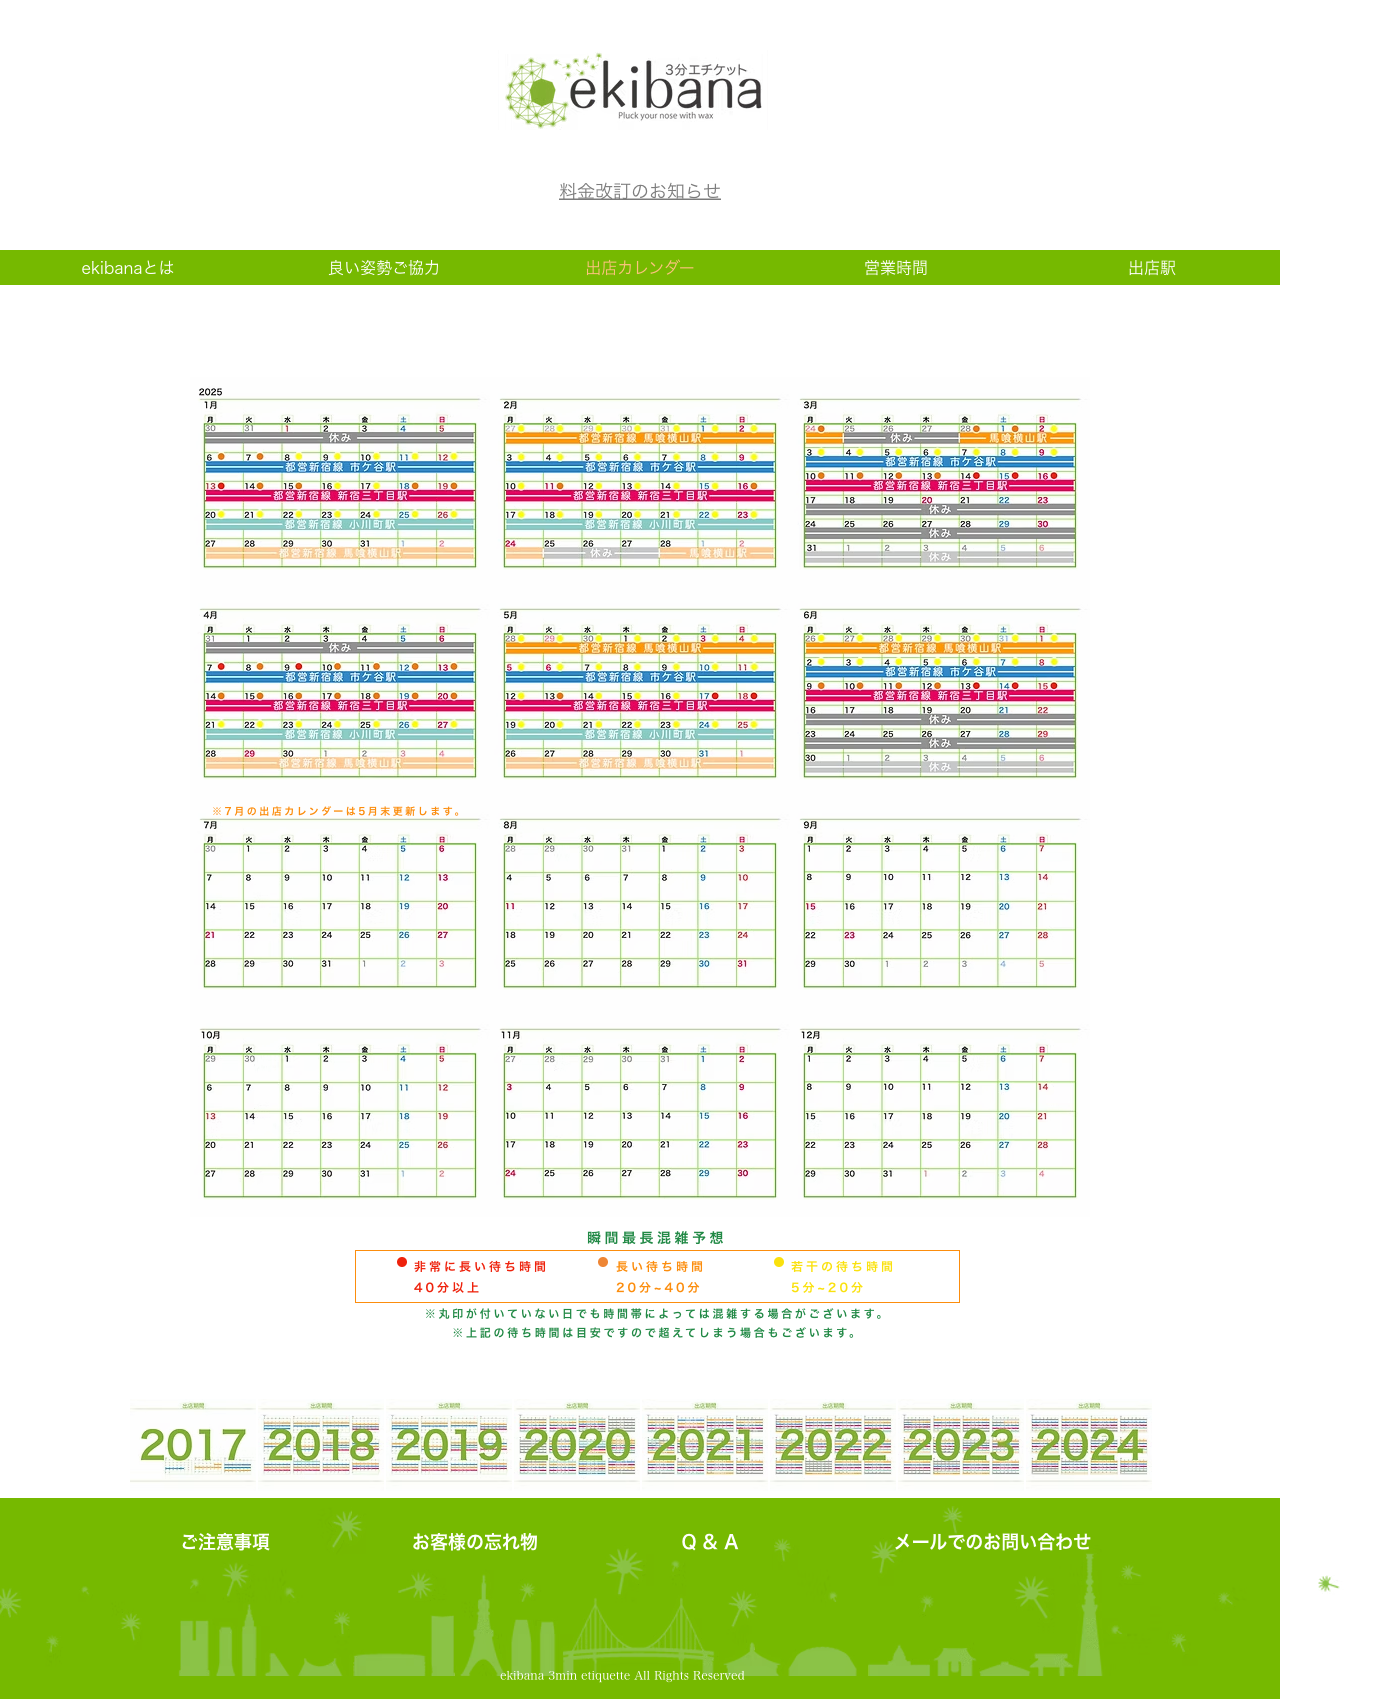
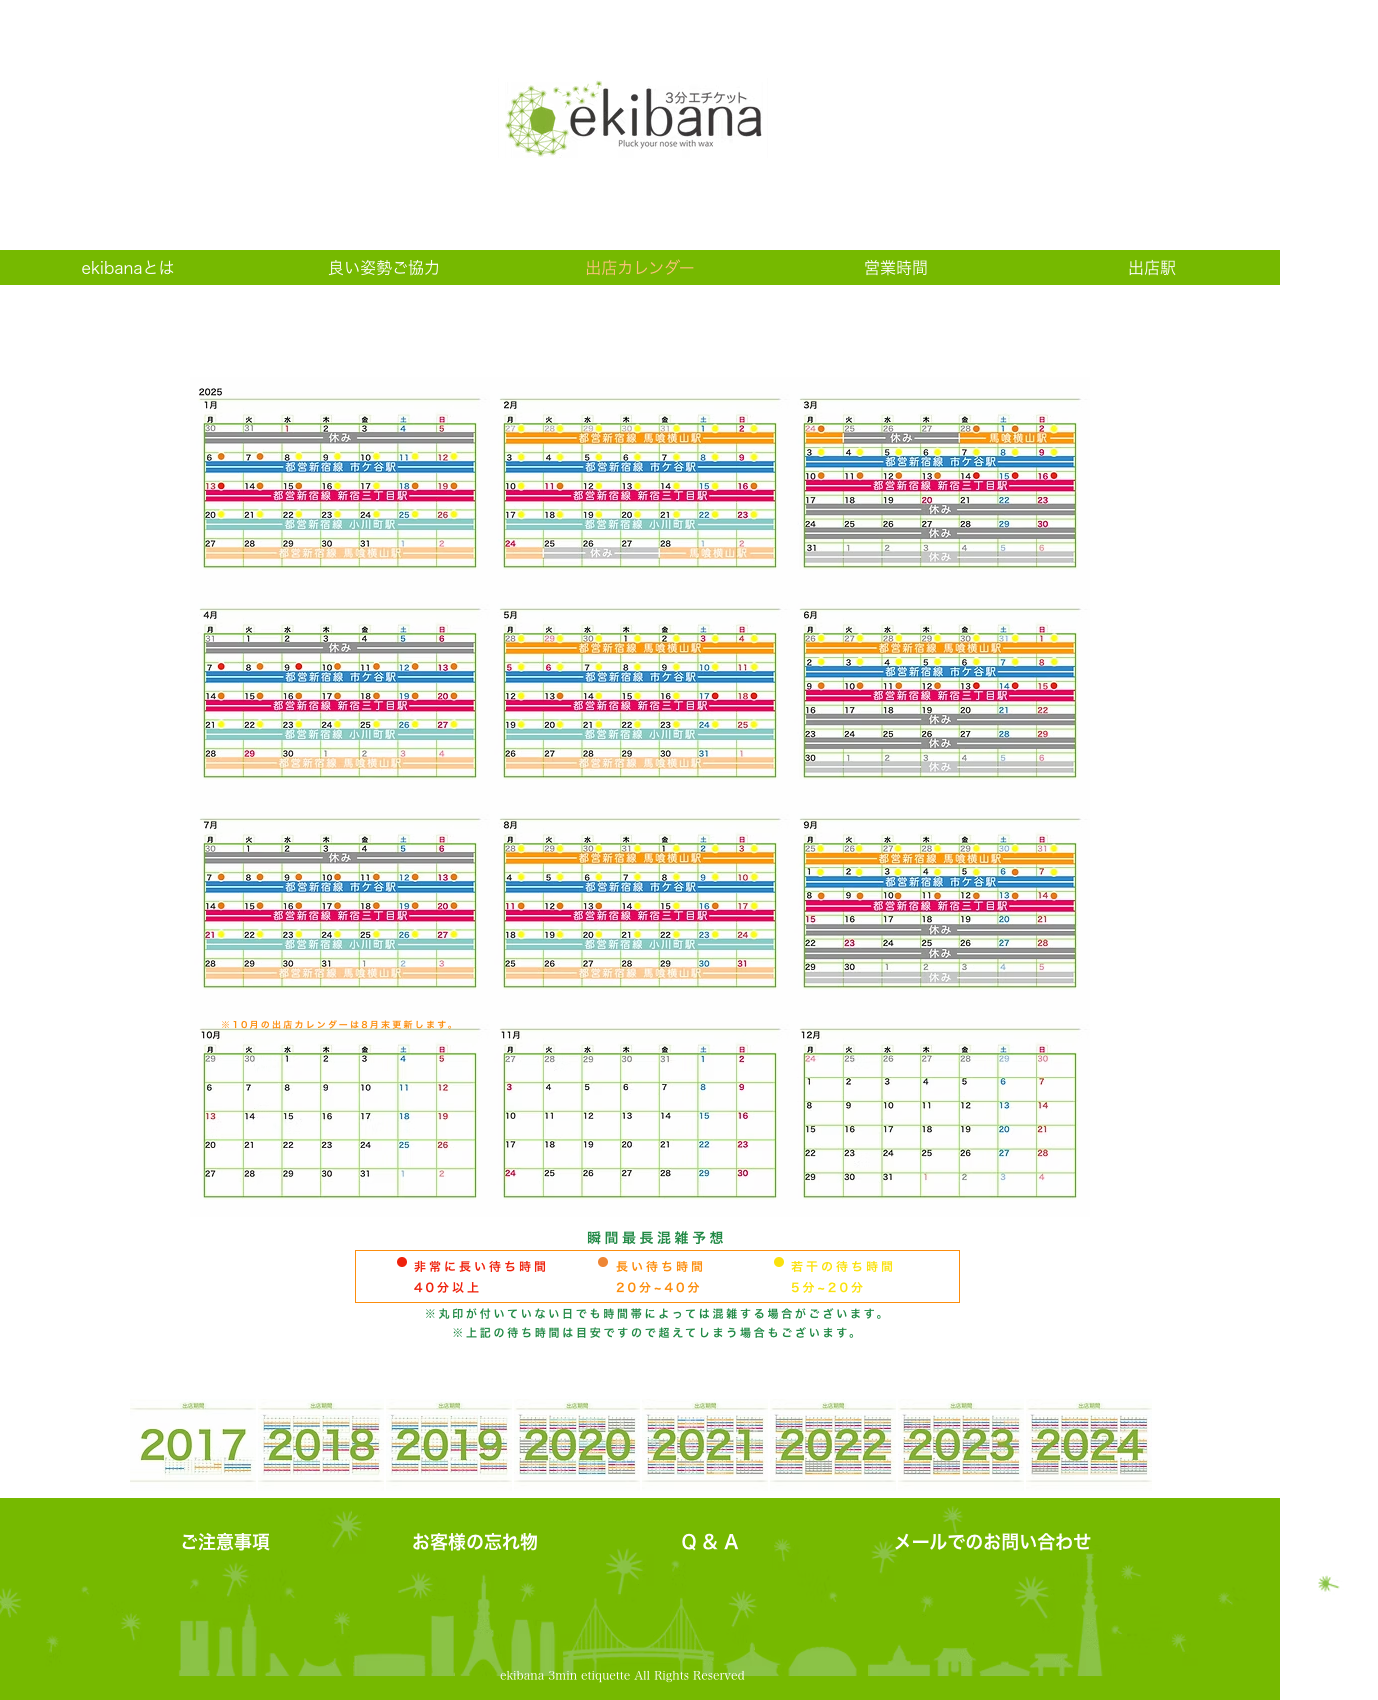
Add July, August, and September 2025 schedule entries

diff --git a/hanage/schedules/years/schedule-2025.ts b/hanage/schedules/years/schedule-2025.ts
@@ -154,4 +154,75 @@ export const schedules2025: SchedulesOfMonth = {
       to: "2025-06-30",
     },
   ],
+  7: [
+    {
+      station: holiday,
+      from: "2025-07-01",
+      to: "2025-07-06",
+    },
+    {
+      station: stations.ichigaya,
+      from: "2025-07-07",
+      to: "2025-07-13",
+    },
+    {
+      station: stations.shinjukuSanchome,
+      from: "2025-07-14",
+      to: "2025-07-20",
+    },
+    {
+      station: stations.ogawamachi,
+      from: "2025-07-21",
+      to: "2025-07-27",
+    },
+    {
+      station: stations.bakuroYokoyama,
+      from: "2025-07-28",
+      to: "2025-07-31",
+    },
+  ],
+  8: [
+    {
+      station: stations.bakuroYokoyama,
+      from: "2025-08-01",
+      to: "2025-08-03",
+    },
+    {
+      station: stations.ichigaya,
+      from: "2025-08-04",
+      to: "2025-08-10",
+    },
+    {
+      station: stations.shinjukuSanchome,
+      from: "2025-08-11",
+      to: "2025-08-17",
+    },
+    {
+      station: stations.ogawamachi,
+      from: "2025-08-18",
+      to: "2025-08-24",
+    },
+    {
+      station: stations.bakuroYokoyama,
+      from: "2025-08-25",
+      to: "2025-08-31",
+    },
+  ],
+  9: [
+    {
+      station: stations.ichigaya,
+      from: "2025-09-01",
+      to: "2025-09-07",
+    },
+    {
+      station: stations.shinjukuSanchome,
+      from: "2025-09-08",
+      to: "2025-09-14",
+    },
+    {
+      station: holiday,
+      from: "2025-09-15",
+      to: "2025-09-30",
+    },
+  ],
 };
